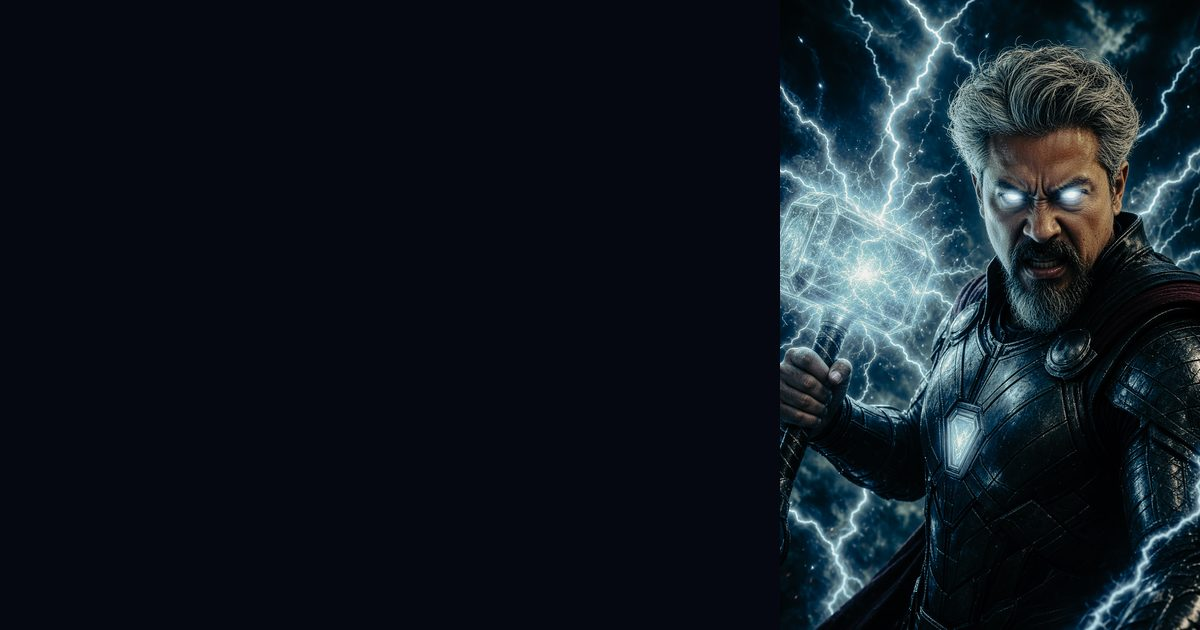
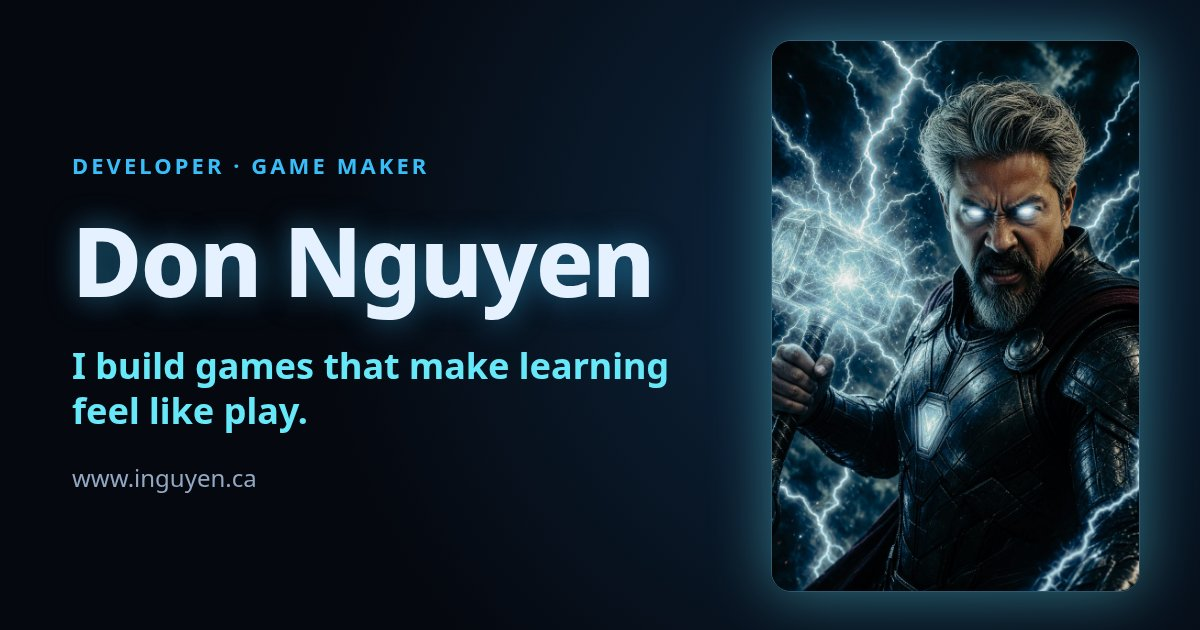
Segment 4: hardening (contrast, tap targets, 404 layout), copy fix, branded OG image; docs

diff --git a/assets/css/sections.css b/assets/css/sections.css
@@ -47,6 +47,12 @@
 }
 
 .site-header__nav a {
+  display: inline-flex;
+  align-items: center;
+  justify-content: center;
+  min-height: 44px;
+  min-width: 24px;
+  padding-inline: var(--sp-2);
   color: var(--text-muted);
   font-size: var(--fs-sm);
   font-weight: 600;
@@ -61,7 +67,7 @@
 
 @media (max-width: 640px) {
   .site-header__nav {
-    gap: var(--sp-4);
+    gap: var(--sp-2);
   }
 
   .site-header__nav a {
@@ -304,6 +310,12 @@ section[id] {
 }
 
 .projects-more a {
+  display: inline-flex;
+  align-items: center;
+  justify-content: center;
+  min-height: 32px;
+  min-width: 24px;
+  padding-inline: var(--sp-2);
   font-weight: 600;
 }
 
@@ -360,6 +372,12 @@ section[id] {
 }
 
 .site-footer a {
+  display: inline-flex;
+  align-items: center;
+  justify-content: center;
+  min-height: 44px;
+  min-width: 24px;
+  padding-inline: var(--sp-2);
   color: var(--text-dim);
   font-size: var(--fs-sm);
 }

diff --git a/assets/css/tokens.css b/assets/css/tokens.css
@@ -7,14 +7,14 @@
   --border-strong: rgba(125, 211, 252, 0.35);
   --text: #e6f1ff;
   --text-muted: #93a8c2;
-  --text-dim: #6b7f99;
+  --text-dim: #7d90a8;
   --accent: #38bdf8;
   --accent-2: #67e8f9;
   --accent-ink: #04111d;
   --glow: 0 0 24px rgba(56, 189, 248, 0.45);
   --glow-strong: 0 0 48px rgba(103, 232, 249, 0.55);
   --warn: #f59e0b;
-  --muted-badge: #475569;
+  --muted-badge: #94a3b8;
   --font-sans: system-ui, -apple-system, "Segoe UI", Roboto, "Helvetica Neue", Arial, sans-serif;
   --font-mono: ui-monospace, SFMono-Regular, Menlo, Consolas, monospace;
   --fs-xs: .75rem;

diff --git a/index.html b/index.html
@@ -265,7 +265,7 @@
         <div class="grid">
           <article class="card card--repo">
             <h3 class="card__title">geo-conquest</h3>
-            <p class="card__text">Geo Conquest: a browser geography conquest quiz (vanilla JS, Natural Earth map).</p>
+            <p class="card__text">Geo Conquest: a browser geography and math conquest quiz with local multiplayer (vanilla JS, Natural Earth map).</p>
             <ul class="card__tags">
               <li class="tag">JavaScript</li>
             </ul>

diff --git a/404.html b/404.html
@@ -12,8 +12,14 @@
   <link rel="stylesheet" href="/assets/css/components.css">
   <link rel="stylesheet" href="/assets/css/sections.css">
   <style>
+    body {
+      min-height: 100vh;
+      min-height: 100dvh;
+      display: flex;
+      flex-direction: column;
+    }
     .error-main {
-      min-height: calc(100vh - 16rem);
+      flex: 1;
       display: flex;
       flex-direction: column;
       align-items: center;

diff --git a/docs/spec.md b/docs/spec.md
@@ -11,7 +11,7 @@ Static site on GitHub Pages, custom domain www.inguyen.ca. Single page (`index.h
 - Acceptance: nav works with keyboard; on ≤ 640px the nav stays on one line (links shrink) — no hamburger needed for 3 links.
 
 ## 2. Hero (`#top`)
-- Two columns on desktop (text left, portrait right), stacked on mobile (portrait first, max 280px wide).
+- Two columns on desktop (text left, portrait right), stacked on mobile (portrait first, max 200px wide).
 - Portrait: `<picture>` with `assets/img/don-480.webp` / `don-800.webp` (srcset, `sizes`) and a `.jpg` fallback; explicit `width="800" height="1200"`; alt "Don Nguyen as a lightning-wielding hero". `fetchpriority="high"`, not lazy.
 - Portrait frame: rounded, thin cyan border, soft electric glow behind it; a subtle pulsing glow (disabled under reduced motion).
 - Eyebrow: "Developer · Game maker". H1: "Don Nguyen". Tagline (see §2a). Sub-line: "Learning games for kids, party games for grown-ups, and side projects in progress."
@@ -32,7 +32,7 @@ Card (primitive `.card`): thumbnail (`assets/games/<slug>.webp`, 640×400, `load
 
 | Group | Slug | Title | One-liner | Tags | Action |
 |---|---|---|---|---|---|
-| Learning games | geo-conquest | Geo Conquest | Conquer the world one question at a time: 1,100+ geography questions, grade 7 math with step-by-step hints, and local multiplayer for up to 4. | Geography, Math, Multiplayer | Play → https://conquest.inguyen.ca/ (card is `.card--featured`, spans 2 columns on desktop) |
+| Learning games | geo-conquest | Geo Conquest | Conquer the world one question at a time: 1,100+ geography questions, grade 7 math with step-by-step hints, and local multiplayer for up to 4. | Geography, Math, Multiplayer | Play → https://conquest.inguyen.ca/ (card is `.card--featured`, full-row horizontal card on desktop) |
 | Learning games | geo-quest-adeline | Geo Quest: Adeline | Ages 9–10: continents, oceans, Canada and map skills. Calm, no timers. | Geography, Ages 9–10 | Play → https://games.inguyen.ca/geo-quest-adeline.html |
 | Learning games | geo-quest-remy | Geo Quest: Remy | Ages 11–12: capitals, landforms, rivers and map skills. | Geography, Ages 11–12 | Play → https://games.inguyen.ca/geo-quest-remy.html |
 | Learning games | geo-quest-seline | Geo Quest: Seline | Ages 14–15: tectonics, biomes, climate and oceans. | Geography, Ages 14–15 | Play → https://games.inguyen.ca/geo-quest-seline.html |
@@ -51,7 +51,7 @@ Card (primitive `.card`): thumbnail (`assets/games/<slug>.webp`, 640×400, `load
 
 ## 4. GitHub projects (`#projects`)  — segment 2
 Heading "Projects", intro "The code behind it all, on GitHub." Cards (`.card--repo`, no thumbnail): repo name, description, language chip, "View repo" link (new tab).
-- geo-conquest — "Geo Conquest: a browser geography conquest quiz (vanilla JS, Natural Earth map)." JavaScript
+- geo-conquest — "Geo Conquest: a browser geography and math conquest quiz with local multiplayer (vanilla JS, Natural Earth map)." JavaScript
 - my-games — "The Games Hub at games.inguyen.ca: small learning and party games." HTML
 - FantasyQuest — "2D RPG homage to Dragon Warrior (in progress)." JavaScript
 - inguyen-site — "This site." HTML/CSS (add once the repo exists)

diff --git a/docs/decisions.md b/docs/decisions.md
@@ -14,3 +14,6 @@
 - 2026-10-10 — **Canonical link** added in segment 1 (the gate's external-link check was narrowed to scripts/stylesheets only).
 - 2026-10-10 — **Seg 2 verified by Forge after a watchdog BLOCKER.** Both models were killed for "no progress" right as they ran the gate; root cause: the wrapper's VERIFY_RE does not recognise `python3 tests/check_site.py`, and batched stream events credit file edits to earlier actions. Gates are now run via `python3 -m unittest tests.test_site.SegN` (which VERIFY_RE recognises).
 - 2026-10-10 — **Projects** shows geo-conquest, my-games, FantasyQuest; inguyen-site is added after the repo exists; k3-portfolio stays out (Don).
+- 2026-10-10 — **Seg 4 audit results:** axe-core (WCAG 2 A/AA + best practice) 0 violations on / and 404; `--text-dim` → #7d90a8 and `--muted-badge` → #94a3b8 for ≥4.5:1; all links ≥24×24 px; no horizontal overflow at 390/768/1280/1440; no animations under reduced motion; first load at 390 px ≈ 127 KB / 9 requests (thumbnails lazy). External links all 200 except LinkedIn, which returns 999 to non-browser clients (normal bot block; same URL as the games hub).
+- 2026-10-10 — **OG image** regenerated as a branded 1200×630 card (eyebrow, name, tagline, URL, portrait).
+- 2026-10-10 — **Copy:** geo-conquest repo blurb now mentions math and local multiplayer.

diff --git a/docs/segments.md b/docs/segments.md
@@ -6,7 +6,7 @@
 | 1 | Design system (tokens.css, components.css) + header + hero + games showcase | §1, §2, §3, §8, §9 | done (mockup; awaiting Don review) |
 | 2 | Projects + About/links + footer | §4, §5, §6 | done |
 | 3 | SEO/OG/JSON-LD, robots.txt, sitemap.xml, 404.html | §7 | done |
-| 4 | Hardening: link check, contrast/a11y audit, mobile pass, Lighthouse-style perf check, copy review with Don | §8, §9 | todo |
+| 4 | Hardening: link check, contrast/a11y audit, mobile pass, Lighthouse-style perf check, copy review with Don | §8, §9 | done (Don to eyeball final screenshots) |
 | 5 | Launch (with Don's OK): create GitHub repo hanoisolo/inguyen-site, push, enable Pages + custom domain, DNS at Squarespace (www CNAME → hanoisolo.github.io; apex A → GitHub IPs; Pages TXT verification), verify https://www.inguyen.ca and https://inguyen.ca | — | todo |
 | 6 | portfolio.inguyen.ca: redirect to www (or remove the Vercel domain) once www is live — decide with Don | — | todo |
 | side | my-games hub: add a Geo Conquest card to hanoisolo/my-games index.html in the existing `.game-card` style (separate repo, separate approval) | — | planned, not started |
